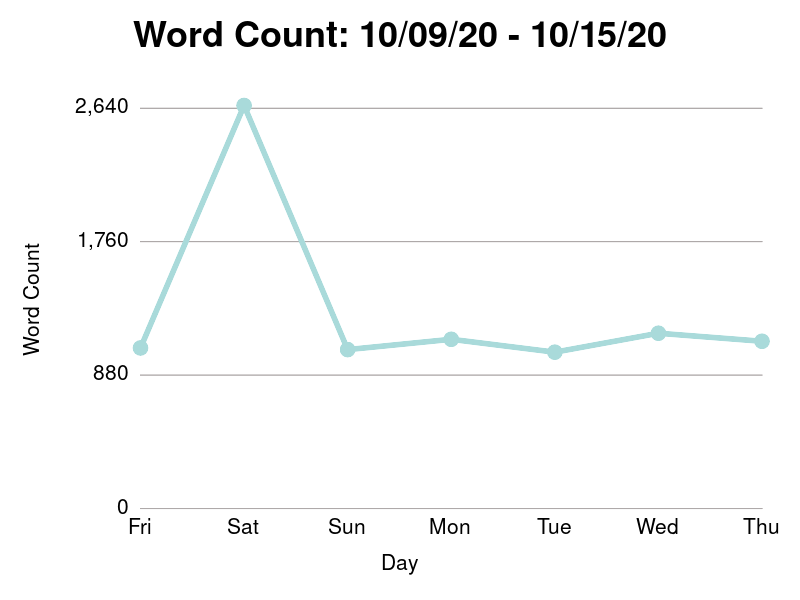
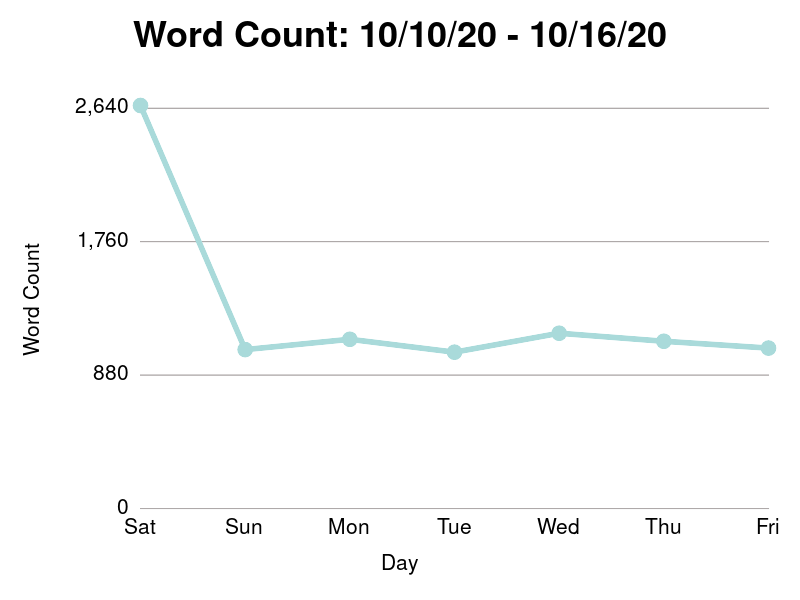
Post

diff --git a/entries/2020-10-16.md b/entries/2020-10-16.md
@@ -1,0 +1,146 @@
+---
+title: town halls, mushroom and cheese tartlets, and temporary tattoos
+---
+
+Dear Journal,
+
+Good morning, everyone.  How lucky we are to have another Friday, and
+another beautiful fall weekend ahead of us.  Hopefully your plans for
+tomorrow and the day after involve some comfort food and your favorite
+hoodie.  Personally, I'm looking forward to redoing some computers on
+the server shelf, eating some good barbecue pork, watching football,
+hanging outside by the fire, and trying to pretend that absolutely
+nothing is wrong in the world.
+
+Yesterday, in lieu of a debate, prospective presidents Donald Trump
+and Joe Biden held their own simultaneous town halls where they
+fielded questions from a moderator and an audience.  Marissa and I
+watched the highlight reel and discussed.
+
+"I have a prediction," I said, leaning back in my chair, pausing the
+video on my phone.  "I think this is the last election we'll even
+bother with debates.  I think going forward, it's just going to be
+town halls like this one, but never with each other on the same
+stage."
+
+Marissa scratched her chin.  "Hmmm... I could see that," she said.
+
+"I mean they've always been pretty bad, but doesn't this year feel
+like we hit a tipping point with the last one?  It felt like with this
+last one, it wasn't even good entertainment."
+
+Marissa nodded.  "This year was a lot worse, yes.  But I mean people
+watch it.  It's viewers and money, right?"
+
+"It's also a lot of risk," I added.  "Really all they're trying to do
+is get a twenty second sound byte of the other candidate getting
+_owned_.  Just anything to blast it out to the Internet."
+
+Don't get me wrong - the town hall format is actually more informative
+simply because it allows each candidate to talk for longer than 10
+seconds without needing to fend off an interruption.  But you can't
+help but lament the symbolism.  The realities proposed by the two
+prevailing ideologies in American politics have become so divergent,
+there's no point to having them in the same room anymore.
+
+_Sip_.  Time for a topic jump.  How about something funny?  Let me
+tell you about the lunch I had yesterday.  It all started on Wednesday
+night when I was sleepily fumbling around YouTube while polishing off
+a bottle of wine.  I found a recipe video for French mushroom and
+cheese tartlets.
+
+"Yesssssss - I'm making this tomorrow," I droned, staring hungrily
+into the TV.
+
+The next morning, having just finished a good chunk of work, I decided
+to make my way into the kitchen and get started.
+
+"You're actually doing it?" asked Marissa.
+
+"Yeah," I said dismissively.  "It will be quick.  I'm just going to
+use puff pastry, and make one big tart instead of smaller ones."
+
+It was not a quick recipe.  An hour and a half later after cooking a
+bechamel with an entire block of gruyere, pan frying mushrooms, and
+blind baking a thin layer of puff pastry, the most luxurious lunch in
+the world finally went into the oven - _after_ topping it with a final
+layer of bread crumbs and melted butter of course.  Marissa and Rodney
+tooled around the dining room, trying find something to take their
+minds off how hungry they were.
+
+"OK, so this was not a quick one," I sighed.  "Sorry I got a little
+carried away.  It's in the oven now, we'll be eating in a minute."
+
+The mushroom and cheese tart browned and oozed.  I delicately removed
+it from the oven to inspect it.  Some of it overflowed over the side
+of the crust.  The center of the pie gurgled like a cheesy dairy
+volcano.
+
+"I... have to let it cool," I sighed.  "I'm pretty sure if I cut into
+it now, we'd be drinking it."
+
+Even after it cooled for ten minutes, it was a cheesy mess.  One by
+one, I shoveled the puff pastry cream slop onto Marissa's and Rodney's
+plates.  An uninspiring but decadent mess of a lunch.
+
+"I'll cut up some cantaloupe too," said Marissa.
+
+Ugly, but still delicious.  We finished the entire tart, and making my
+way upstairs to resume work, I felt as if there was a giant ball of
+cheese, milk, and butter churning around in my poor stomach.
+
+"I'm literally pinching and punching myself in the leg to stay awake,"
+I wrote in slack, recounting to my team what had happened.
+
+The moral of the story is that party appetizers are tiny for a
+reason.  You're not supposed to eat more than a few, let alone pile
+them all into a single pie dish for lunch.
+
+With the help of a healthy ragout dinner, we rallied.  After dinner I
+made my way into the kitchen to begin cleaning up.  Marissa hit me on
+the shoulder, silently pointing to the dining room table.  I leaned my
+head around the door to observe.  Rodney had independently retrieved a
+clean tupperware bin from the cabinet.  With the open container on the
+table, he was standing on his tiptoes, scraping the sauce from his
+plate into the bin.
+
+"I have never been more proud in my life," I said quietly.
+
+"Do you think this warrants a pom-pom in the prize cup?" she asked.
+
+"Oh definitely," I said without hesitation.
+
+Rodney proudly entered the kitchen, flipping the sealed tupperware
+container in my direction.  Even though only a spoonful of broth made
+it, I pretended to stow it away in the fridge for leftovers.
+
+We immediately held a "pom-pom in the prize cup" ceremony.  This one
+reached the top, and Rodney fished out a prize from the coveted prize
+bin.
+
+"Spider-man tattoos!" Marissa yelled, helping him unwrap his prize.
+
+Rodney gave a spider-man tattoo to Marissa, planting it on the open
+side of her wrist.  He had about seven left.
+
+"What about you, dude?" I asked.
+
+"He doesn't want to wear any," said Marissa.  Knowing Rodney, that
+wasn't surprising.
+
+"Well, what about me?" I said.
+
+"How many?" asked Marissa.
+
+"All of em," I laughed.  "Why not?  Just go for it.  I want to look
+like Post Malone."
+
+Rodney and Marissa applied some new ink to my arms, neck, and
+shoulders.  Rodney wanted to put one on my forehead, but Marissa put a
+stop to that.
+
+"You do have to work tomorrow," laughed Marissa.  "People should take
+you _somewhat_ seriously."
+
+I beg to differ.  Thanks for stopping by today.  Have a great day,
+everyone.
